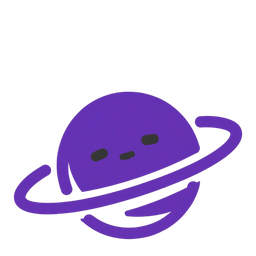
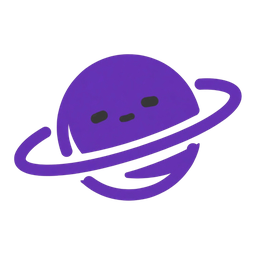
Centre the planet in its picture (a speck at the top of the source moved it down), remove "Profil" from the side bar
The planet image had an empty strip above it (JPEG specks counted as picture), so it sat low in the
logo and in the round avatar of Satürn-Web; the crop now follows the solid shape only. The side bar no
longer has its own "Profil" block: the account at the bottom leads to the profile.

Changed region(s): [[0.0312, 0.1875, 0.9688, 0.9375], [0.4688, 0.4375, 0.5312, 0.5]]

diff --git a/static/js/yipi.js b/static/js/yipi.js
@@ -80,7 +80,7 @@
     const me = Y.me;
     appbar = Y.appBar();
     const extras = h("div", { class: "tab-extras" }, extraItem("/notifications", "bell", "Mitteilungen", "notifications", "notifications"),
-      extraItem("/explore", "search", "Suche", "", "explore"), extraItem(`/${me.handle}`, "user", "Profil", "", "profile"), me.isAdmin ? extraItem("/moderation", "shield", "Moderation", "", "moderation") : null);
+      extraItem("/explore", "search", "Suche", "", "explore"), me.isAdmin ? extraItem("/moderation", "shield", "Moderation", "", "moderation") : null);
     const more = h("button", { class: "rail-more", type: "button", "aria-label": "Mehr zu deinem Konto", "aria-haspopup": "menu", onclick: (event) => {
       event.preventDefault();
       event.stopPropagation();

diff --git a/static/css/yipi.css b/static/css/yipi.css
@@ -2154,7 +2154,7 @@ html.share-locked, html.share-locked body { overflow: hidden; overscroll-behavio
   :root { --side: 268px; }
   .rail-top { display: flex; flex-direction: column; gap: 16px; order: 0; margin: 4px 0 14px; padding: 0 4px; }
   .rail-brand { display: flex; align-items: center; gap: 12px; color: var(--text); }
-  .rail-brand svg:first-child { width: 40px; height: 40px; flex: none; }
+  .rail-brand svg:first-child { width: 46px; height: 40px; flex: none; }
   .rail-brand svg:last-child { width: auto; height: 26px; }
   .rail-search .search-box { width: 100%; height: 46px; background: var(--bg-2); border-color: transparent; }
   .app:not(.bare) { --top: 0px; }
